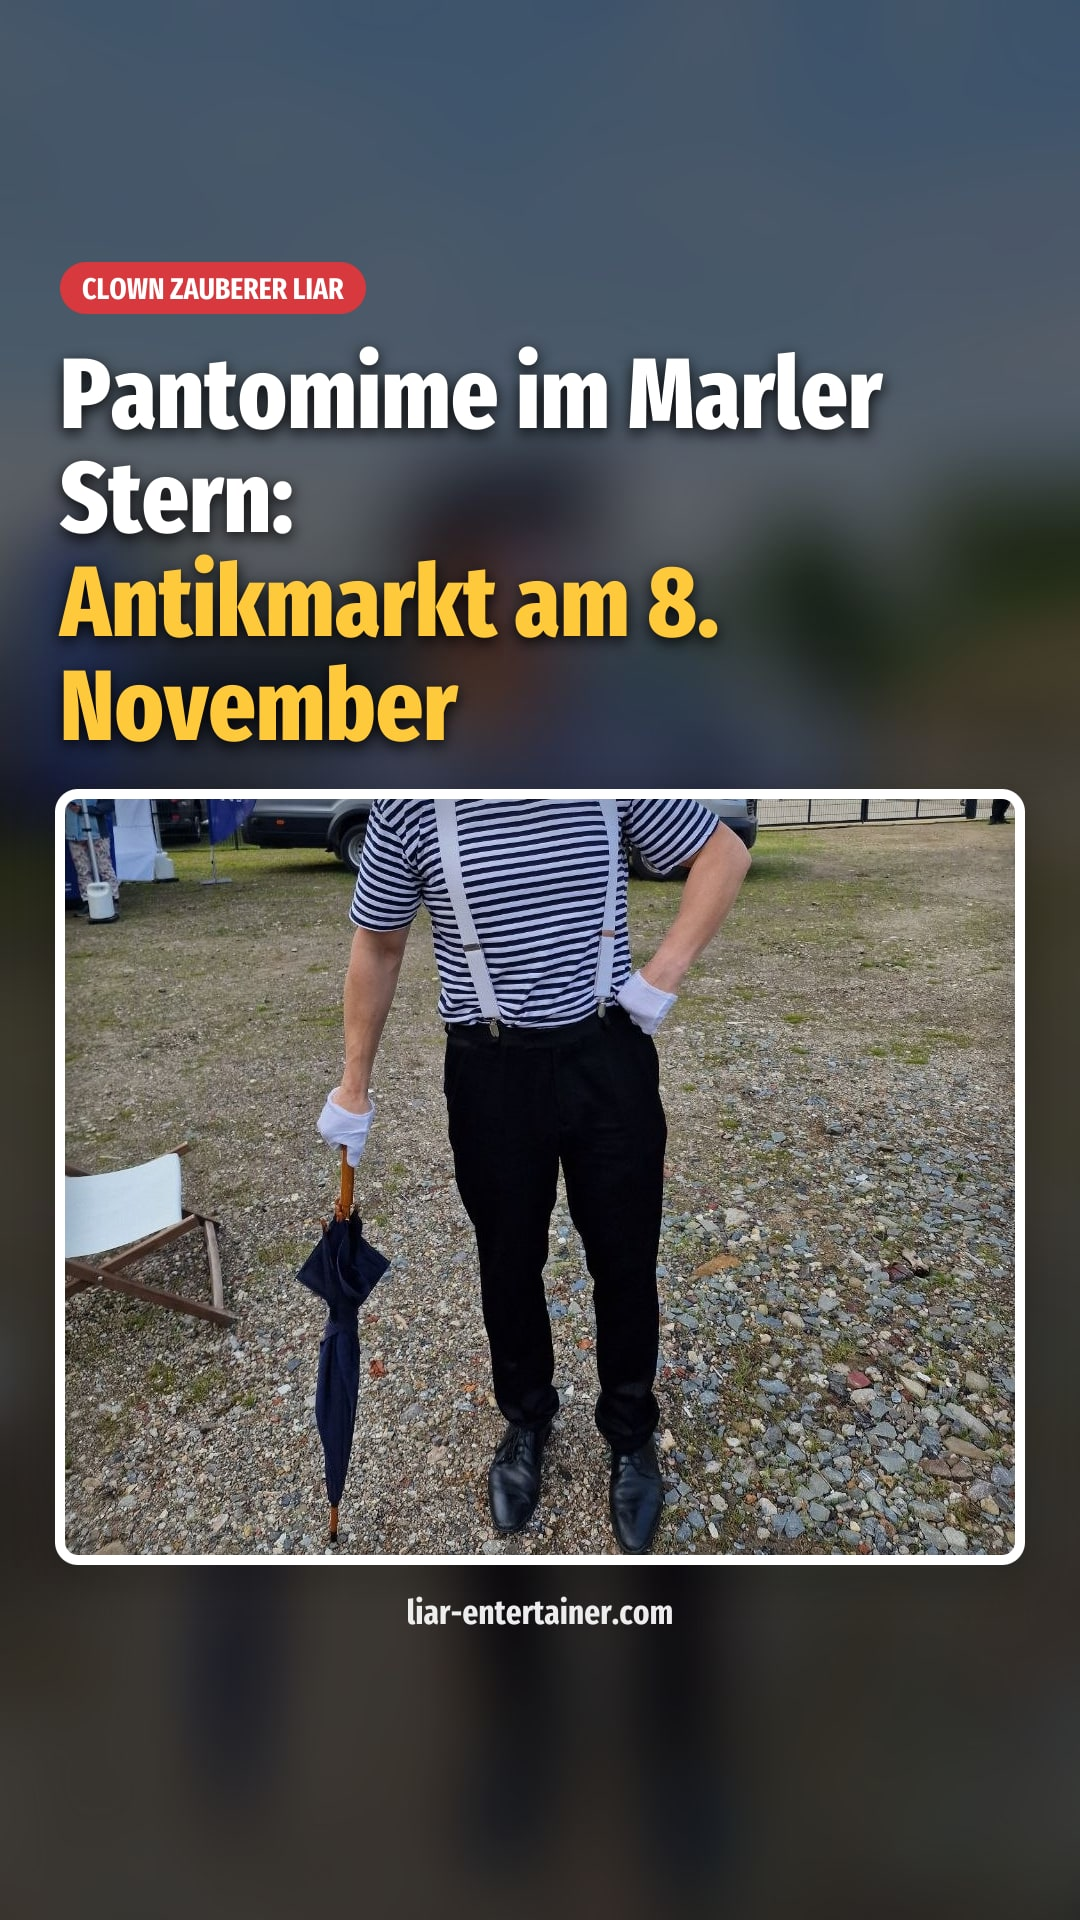
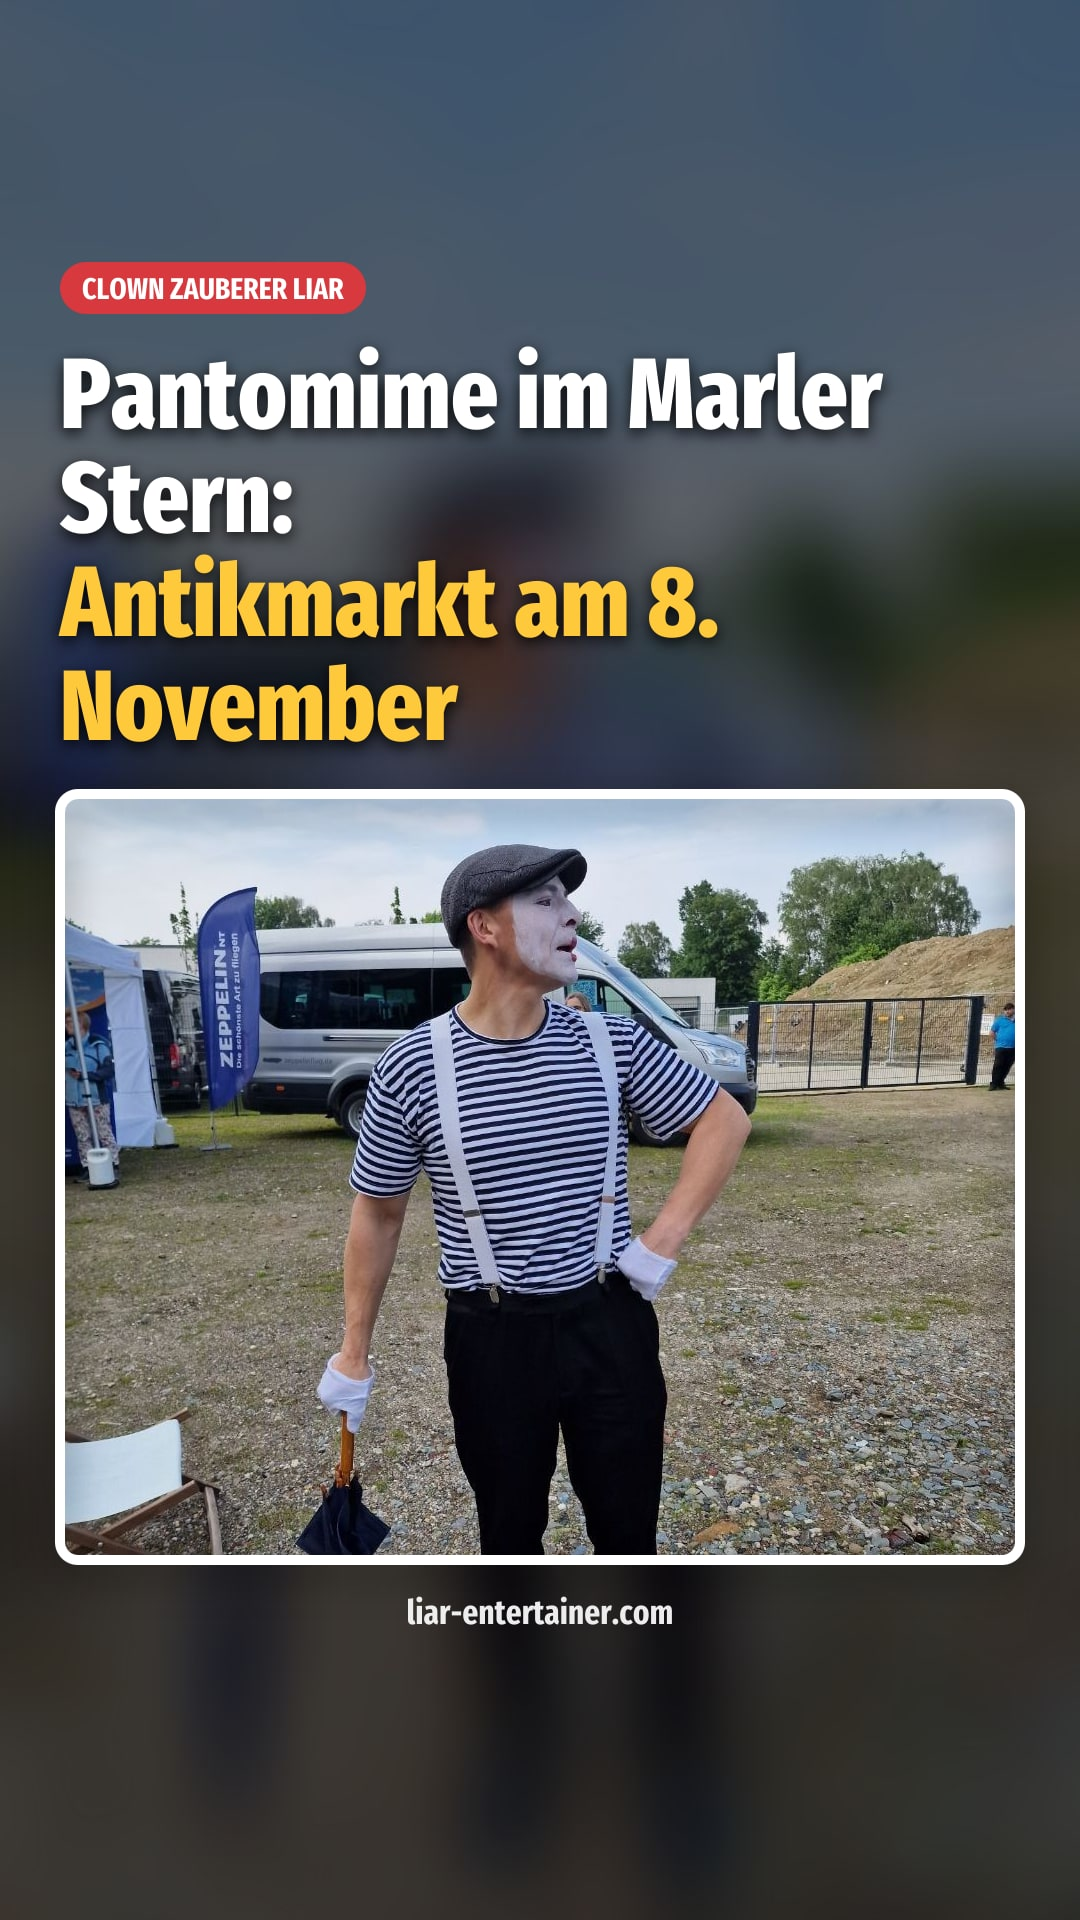
fix: Beitrags- und Story-Bild zeigen Kopf + Oberkörper (GREEN: heroFocus 10/10, Suite 53/53)
- Frontmatter heroFocus {x, top, bottom} (% des Fotos)
- Beitragsbild: Zuschnitt nur, wenn Kopf + Oberkörper komplett unter dem
  Titel liegen; sonst Foto ungeschnitten rechts, Titel links
- Story-Foto: Ausschnitt um Kopf + Oberkörper
- Marler-Stern-Artikel: Fokus per Bild-KI (49/23/59), Bilder neu

Claude-Session: https://claude.ai/code/session_01RKGJmEbfYAStq8Kc3eqBou

Changed region(s): [[0.0611, 0.4062, 0.9472, 0.8125]]

diff --git a/site/src/utils/heroOverlay.ts b/site/src/utils/heroOverlay.ts
@@ -10,7 +10,8 @@
 import sharp from 'sharp';
 import { mkdir, writeFile, access, readFile } from 'node:fs/promises';
 import path from 'node:path';
-import { loadFont, fitTitle, pathData, measure } from './overlayText';
+import { loadFont, pathData, measure } from './overlayText';
+import { planHero, parseFocus, titleMetrics, type Focus } from './focusCrop';
 
 const OUT_DIR = path.resolve('./public/hero-generated');
 const LOCAL_DOMAIN_PREFIX = 'https://liar-entertainer.com/';
@@ -44,17 +45,10 @@ const BRAND = () => loadFont(700);
  * fette Schrift, erster Titelteil weiß, zweiter gelb, weicher Schatten,
  * dunkler Verlauf oben, kleines rotes LIAR-Schild unten links.
  */
-export function buildSvg(title: string): string {
+export function buildSvg(title: string, opts: { maxWidth?: number; split?: { photoLeft: number } } = {}): string {
   const font = FONT();
-  const { size, lines } = fitTitle(font, title, {
-    maxWidth: W - 2 * PADDING_X,
-    maxLines: 4,
-    maxSize: 92,
-    minSize: 54,
-    colors: ['#ffffff', '#ffc93c'],
-  });
-  const lh = Math.round(size * 1.06);
-  let y = 34 + Math.round(size * 0.86);
+  const { size, lines, lh, firstBaseline } = titleMetrics(title, opts.maxWidth ?? W - 2 * PADDING_X);
+  let y = firstBaseline;
   const paths: string[] = [];
   for (const l of lines) {
     paths.push(`<path d="${pathData(font, l.text, PADDING_X, y, size)}" fill="${l.color}"/>`);
@@ -80,12 +74,18 @@ export function buildSvg(title: string): string {
       <stop offset="60%" stop-color="#000" stop-opacity="0.38"/>
       <stop offset="100%" stop-color="#000" stop-opacity="0"/>
     </linearGradient>
+    <linearGradient id="edge" x1="0" y1="0" x2="1" y2="0">
+      <stop offset="0%" stop-color="#000" stop-opacity="0"/>
+      <stop offset="100%" stop-color="#000" stop-opacity="0.55"/>
+    </linearGradient>
     <linearGradient id="foot" x1="0" y1="1" x2="0" y2="0">
       <stop offset="0%" stop-color="#000" stop-opacity="0.45"/>
       <stop offset="100%" stop-color="#000" stop-opacity="0"/>
     </linearGradient>
   </defs>
-  <rect x="0" y="0" width="${W}" height="${shadeH}" fill="url(#darken)"/>
+  ${opts.split
+    ? `<rect x="${opts.split.photoLeft - 70}" y="0" width="70" height="${H}" fill="url(#edge)"/>`
+    : `<rect x="0" y="0" width="${W}" height="${shadeH}" fill="url(#darken)"/>`}
   <rect x="0" y="${H - 140}" width="${W}" height="140" fill="url(#foot)"/>
   <g filter="url(#soft)" opacity="0.9" transform="translate(0 4)">${shadow}</g>
   <g opacity="0.55" transform="translate(2 3)">${shadow}</g>
@@ -106,6 +106,7 @@ export async function generateHeroWithOverlay(
   coverUrl: string,
   title: string,
   slug: string,
+  focusInput?: unknown,
 ): Promise<string> {
   if (!coverUrl) return coverUrl;
 
@@ -123,21 +124,39 @@ export async function generateHeroWithOverlay(
   try {
     await mkdir(OUT_DIR, { recursive: true });
     const coverBuf = await loadCover(coverUrl);
-
-    const resized = await sharp(coverBuf)
-      .resize(W, H, { fit: 'cover', position: sharp.strategy.attention })
-      .toBuffer();
-
-    const svg = buildSvg(title);
-    const composed = await sharp(resized)
-      .composite([{ input: Buffer.from(svg), top: 0, left: 0 }])
-      .jpeg({ quality: 88, progressive: true, mozjpeg: true })
-      .toBuffer();
-
+    const composed = await composeHero(coverBuf, title, parseFocus(focusInput));
     await writeFile(outPath, composed);
     return publicUrl;
   } catch (e) {
     console.warn(`[heroOverlay] generation failed for ${slug}:`, e);
     return coverUrl;
   }
+}
+
+/**
+ * Bild + Titel zusammensetzen. Mit Fokus: Kopf + Oberkörper bleiben sichtbar
+ * (Zuschnitt unter dem Titel oder Foto ungeschnitten rechts, Titel links).
+ */
+export async function composeHero(coverBuf: Buffer, title: string, focus: Focus | null): Promise<Buffer> {
+  const oriented = await sharp(coverBuf).rotate().toBuffer();
+  const meta = await sharp(oriented).metadata();
+  const plan = planHero(meta.width ?? W, meta.height ?? H, focus, title);
+  let base: Buffer;
+  let svg: string;
+  if (plan.mode === 'split') {
+    const bg = await sharp(oriented).resize(W, H, { fit: 'cover', position: 'center' })
+      .blur(30).modulate({ brightness: 0.42, saturation: 0.8 }).toBuffer();
+    const photo = await sharp(oriented).extract(plan.region)
+      .resize(plan.photo.width, plan.photo.height, { fit: 'cover' }).toBuffer();
+    base = await sharp(bg).composite([{ input: photo, left: plan.photo.left, top: 0 }]).toBuffer();
+    svg = buildSvg(title, { maxWidth: plan.textWidth - 2 * PADDING_X, split: { photoLeft: plan.photo.left } });
+  } else {
+    const img = plan.mode === 'cover' ? sharp(oriented).extract(plan.region) : sharp(oriented);
+    base = await img.resize(W, H, { fit: 'cover', position: sharp.strategy.attention }).toBuffer();
+    svg = buildSvg(title);
+  }
+  return sharp(base)
+    .composite([{ input: Buffer.from(svg), top: 0, left: 0 }])
+    .jpeg({ quality: 88, progressive: true, mozjpeg: true })
+    .toBuffer();
 }

diff --git a/site/src/utils/focusCrop.ts b/site/src/utils/focusCrop.ts
@@ -1,0 +1,106 @@
+/**
+ * Bildausschnitt nach Personen-Fokus (Kopf + Oberkörper müssen sichtbar sein).
+ *
+ * Fokus kommt aus dem Frontmatter `heroFocus` (von der n8n-Pipeline per Bild-KI
+ * gesetzt): x = horizontale Mitte der Person(en), top = Kopf-Oberkante,
+ * bottom = Hüfte/Ende Oberkörper – jeweils in % des Originalfotos.
+ *
+ * - planHero: Beitragsbild 1200×630 mit Titel oben links. Passt Kopf + Oberkörper
+ *   komplett UNTER den Titel → Zuschnitt („cover“). Sonst (z. B. Hochkant-Foto)
+ *   → „split“: Foto ungeschnitten rechts, Titel links daneben.
+ * - planBox: Foto in festem Rahmen (Story) – Ausschnitt enthält Kopf + Oberkörper.
+ */
+import { loadFont, fitTitle } from './overlayText';
+
+export type Focus = { x: number; top: number; bottom: number };
+export type Region = { left: number; top: number; width: number; height: number };
+export type HeroPlan =
+  | { mode: 'attention' }
+  | { mode: 'cover'; region: Region }
+  | { mode: 'split'; region: Region; photo: Region; textWidth: number };
+
+export const HERO_W = 1200;
+export const HERO_H = 630;
+export const HERO_PAD_X = 56;
+const SPLIT_MAX_PHOTO = 0.6; // Foto höchstens 60 % der Breite, Titel braucht Platz
+
+export function parseFocus(v: unknown): Focus | null {
+  let x: number, top: number, bottom: number;
+  if (typeof v === 'string') {
+    const parts = v.trim().split(/[\s,;]+/).map(Number);
+    if (parts.length !== 3) return null;
+    [x, top, bottom] = parts;
+  } else if (v && typeof v === 'object') {
+    const o = v as Record<string, unknown>;
+    x = Number(o.x); top = Number(o.top); bottom = Number(o.bottom);
+  } else return null;
+  const ok = [x, top, bottom].every((n) => Number.isFinite(n) && n >= 0 && n <= 100) && bottom > top;
+  return ok ? { x, top, bottom } : null;
+}
+
+/** Titel-Layout des Beitragsbilds (gleiche Regeln wie heroOverlay.buildSvg). */
+export function titleMetrics(title: string, maxWidth = HERO_W - 2 * HERO_PAD_X) {
+  const font = loadFont(800);
+  const { size, lines } = fitTitle(font, title, {
+    maxWidth, maxLines: 4, maxSize: 92, minSize: 54, colors: ['#ffffff', '#ffc93c'],
+  });
+  const lh = Math.round(size * 1.06);
+  const firstBaseline = 34 + Math.round(size * 0.86);
+  const bottom = firstBaseline + (lines.length - 1) * lh + Math.round(size * 0.25);
+  return { size, lines, lh, firstBaseline, bottom };
+}
+
+/** Höhe (px im 1200×630-Bild), die der Titel oben belegt, inkl. kleinem Abstand. */
+export function titleBandHeight(title: string): number {
+  return titleMetrics(title).bottom + 14;
+}
+
+const clamp = (v: number, lo: number, hi: number) => Math.max(lo, Math.min(hi, v));
+const round = (r: Region): Region => ({
+  left: Math.round(r.left), top: Math.round(r.top), width: Math.round(r.width), height: Math.round(r.height),
+});
+
+export function planHero(srcW: number, srcH: number, focus: Focus | null, title: string): HeroPlan {
+  if (!focus) return { mode: 'attention' };
+  const cropW = Math.min(srcW, (srcH * HERO_W) / HERO_H);
+  const cropH = (cropW * HERO_H) / HERO_W;
+  const band = titleBandHeight(title) / HERO_H; // Anteil, den der Titel oben verdeckt
+  const t = (focus.top / 100) * srcH;
+  const b = (focus.bottom / 100) * srcH;
+  const margin = 0.02 * cropH;
+  const free = cropH * (1 - band) - 2 * margin;
+  if (b - t <= free) {
+    const top = clamp(t - band * cropH - margin, 0, srcH - cropH);
+    const headOk = t >= top + band * cropH - 1;
+    const waistOk = b <= top + cropH + 1;
+    if (headOk && waistOk) {
+      const left = clamp((focus.x / 100) * srcW - cropW / 2, 0, srcW - cropW);
+      return { mode: 'cover', region: round({ left, top, width: cropW, height: cropH }) };
+    }
+  }
+  // Split: Foto in voller Höhe rechts. Zu breite Fotos werden um die Person herum beschnitten.
+  const fullW = (HERO_H * srcW) / srcH;
+  const photoW = Math.min(fullW, HERO_W * SPLIT_MAX_PHOTO);
+  const regionW = (photoW / HERO_H) * srcH;
+  const left = clamp((focus.x / 100) * srcW - regionW / 2, 0, srcW - regionW);
+  const pw = Math.round(photoW);
+  const photo = { left: HERO_W - pw, top: 0, width: pw, height: HERO_H };
+  return {
+    mode: 'split',
+    region: round({ left, top: 0, width: regionW, height: srcH }),
+    photo,
+    textWidth: HERO_W - photo.width,
+  };
+}
+
+export function planBox(srcW: number, srcH: number, boxW: number, boxH: number, focus: Focus | null): Region | null {
+  if (!focus) return null;
+  const cropW = Math.min(srcW, (srcH * boxW) / boxH);
+  const cropH = (cropW * boxH) / boxW;
+  const t = (focus.top / 100) * srcH;
+  const b = (focus.bottom / 100) * srcH;
+  const head = (b - t) <= cropH * 0.92 ? 0.06 : 0.03; // passt alles: etwas Luft über dem Kopf
+  const top = clamp(t - head * cropH, 0, srcH - cropH);
+  const left = clamp((focus.x / 100) * srcW - cropW / 2, 0, srcW - cropW);
+  return round({ left, top, width: cropW, height: cropH });
+}

diff --git a/site/src/utils/storyOverlay.ts b/site/src/utils/storyOverlay.ts
@@ -13,6 +13,7 @@ import sharp from 'sharp';
 import { mkdir, writeFile, access, readFile } from 'node:fs/promises';
 import path from 'node:path';
 import { loadFont, fitTitle, pathData, measure } from './overlayText';
+import { planBox, parseFocus } from './focusCrop';
 
 const OUT_DIR = path.resolve('./public/story-generated');
 const LOCAL_DOMAIN_PREFIX = 'https://liar-entertainer.com/';
@@ -118,6 +119,7 @@ export async function generateStoryImage(
   coverUrl: string,
   title: string,
   slug: string,
+  focusInput?: unknown,
 ): Promise<string> {
   if (!coverUrl) return coverUrl;
 
@@ -134,7 +136,8 @@ export async function generateStoryImage(
 
   try {
     await mkdir(OUT_DIR, { recursive: true });
-    const coverBuf = await loadCover(coverUrl);
+    const coverBuf = await sharp(await loadCover(coverUrl)).rotate().toBuffer();
+    const meta = await sharp(coverBuf).metadata();
 
     // Blurred + darkened background: cover-fit to full 1080x1920, then blur
     const background = await sharp(coverBuf)
@@ -147,7 +150,8 @@ export async function generateStoryImage(
     const layout = storyLayout(title);
     const { top, left, width, height } = layout.photo;
     const mask = Buffer.from(`<svg width="${width}" height="${height}"><rect width="${width}" height="${height}" rx="18" fill="#fff"/></svg>`);
-    const foreground = await sharp(coverBuf)
+    const region = planBox(meta.width ?? width, meta.height ?? height, width, height, parseFocus(focusInput));
+    const foreground = await (region ? sharp(coverBuf).extract(region) : sharp(coverBuf))
       .resize(width, height, { fit: 'cover', position: sharp.strategy.attention })
       .composite([{ input: mask, blend: 'dest-in' }])
       .png()

diff --git a/site/tests/heroFocus.test.ts b/site/tests/heroFocus.test.ts
@@ -43,7 +43,7 @@ describe('planHero (Beitragsbild 1200×630)', () => {
   });
 
   it('Querformat: Zuschnitt enthält Kopf + Oberkörper komplett unterhalb des Titels', () => {
-    const f = { x: 50, top: 8, bottom: 42 };
+    const f = { x: 50, top: 40, bottom: 72 };
     const p = planHero(1600, 1200, f, 'Kurz: Titel');
     expect(p.mode).toBe('cover');
     if (p.mode !== 'cover') return;
@@ -52,6 +52,10 @@ describe('planHero (Beitragsbild 1200×630)', () => {
     expect(waistRel).toBeLessThanOrEqual(1);
     expect(p.region.top).toBeGreaterThanOrEqual(0);
     expect(p.region.top + p.region.height).toBeLessThanOrEqual(1200);
+  });
+
+  it('Querformat, Kopf ganz oben (würde unter dem Titel liegen) → split statt Gesicht verdecken', () => {
+    expect(planHero(1600, 1200, { x: 50, top: 8, bottom: 42 }, 'Kurz: Titel').mode).toBe('split');
   });
 
   it('Querformat, Person zu groß für den Bereich unter dem Titel → split statt Kopf abschneiden', () => {

diff --git a/site/src/content.config.ts b/site/src/content.config.ts
@@ -11,6 +11,8 @@ const blog = defineCollection({
     updatedDate: z.coerce.date().optional(),
     heroImage: z.string().optional(),
     heroImageAlt: z.string().optional(),
+    // Kopf + Oberkörper im Titelbild (% des Fotos), gesetzt von der n8n-Pipeline per Bild-KI
+    heroFocus: z.union([z.string(), z.object({ x: z.number(), top: z.number(), bottom: z.number() })]).optional(),
     categories: z.array(z.string()).default([]),
     tags: z.array(z.string()).default([]),
     author: z.string().default('Ben Mikail'),

diff --git a/site/src/content/blog/pantomime-antikmarkt-marler-stern-november.md b/site/src/content/blog/pantomime-antikmarkt-marler-stern-november.md
@@ -5,6 +5,7 @@ description: "Am Sonntag, 8. November 2026, bin ich von 14 bis 18 Uhr als Pantom
 publishDate: 2026-10-23
 heroImage: "https://liar-entertainer.com/blog-images/pantomime-antikmarkt-marler-stern-november/cover.jpg"
 heroImageAlt: "Michaël Prescler, bekannt als Clown Zauberer LIAR"
+heroFocus: { x: 49, top: 23, bottom: 59 }
 categories: ["Termine","Lokales"]
 tags: ["pantomime","marler-stern","antikmarkt","walk-act","marl"]
 author: "Michaël Prescler"
